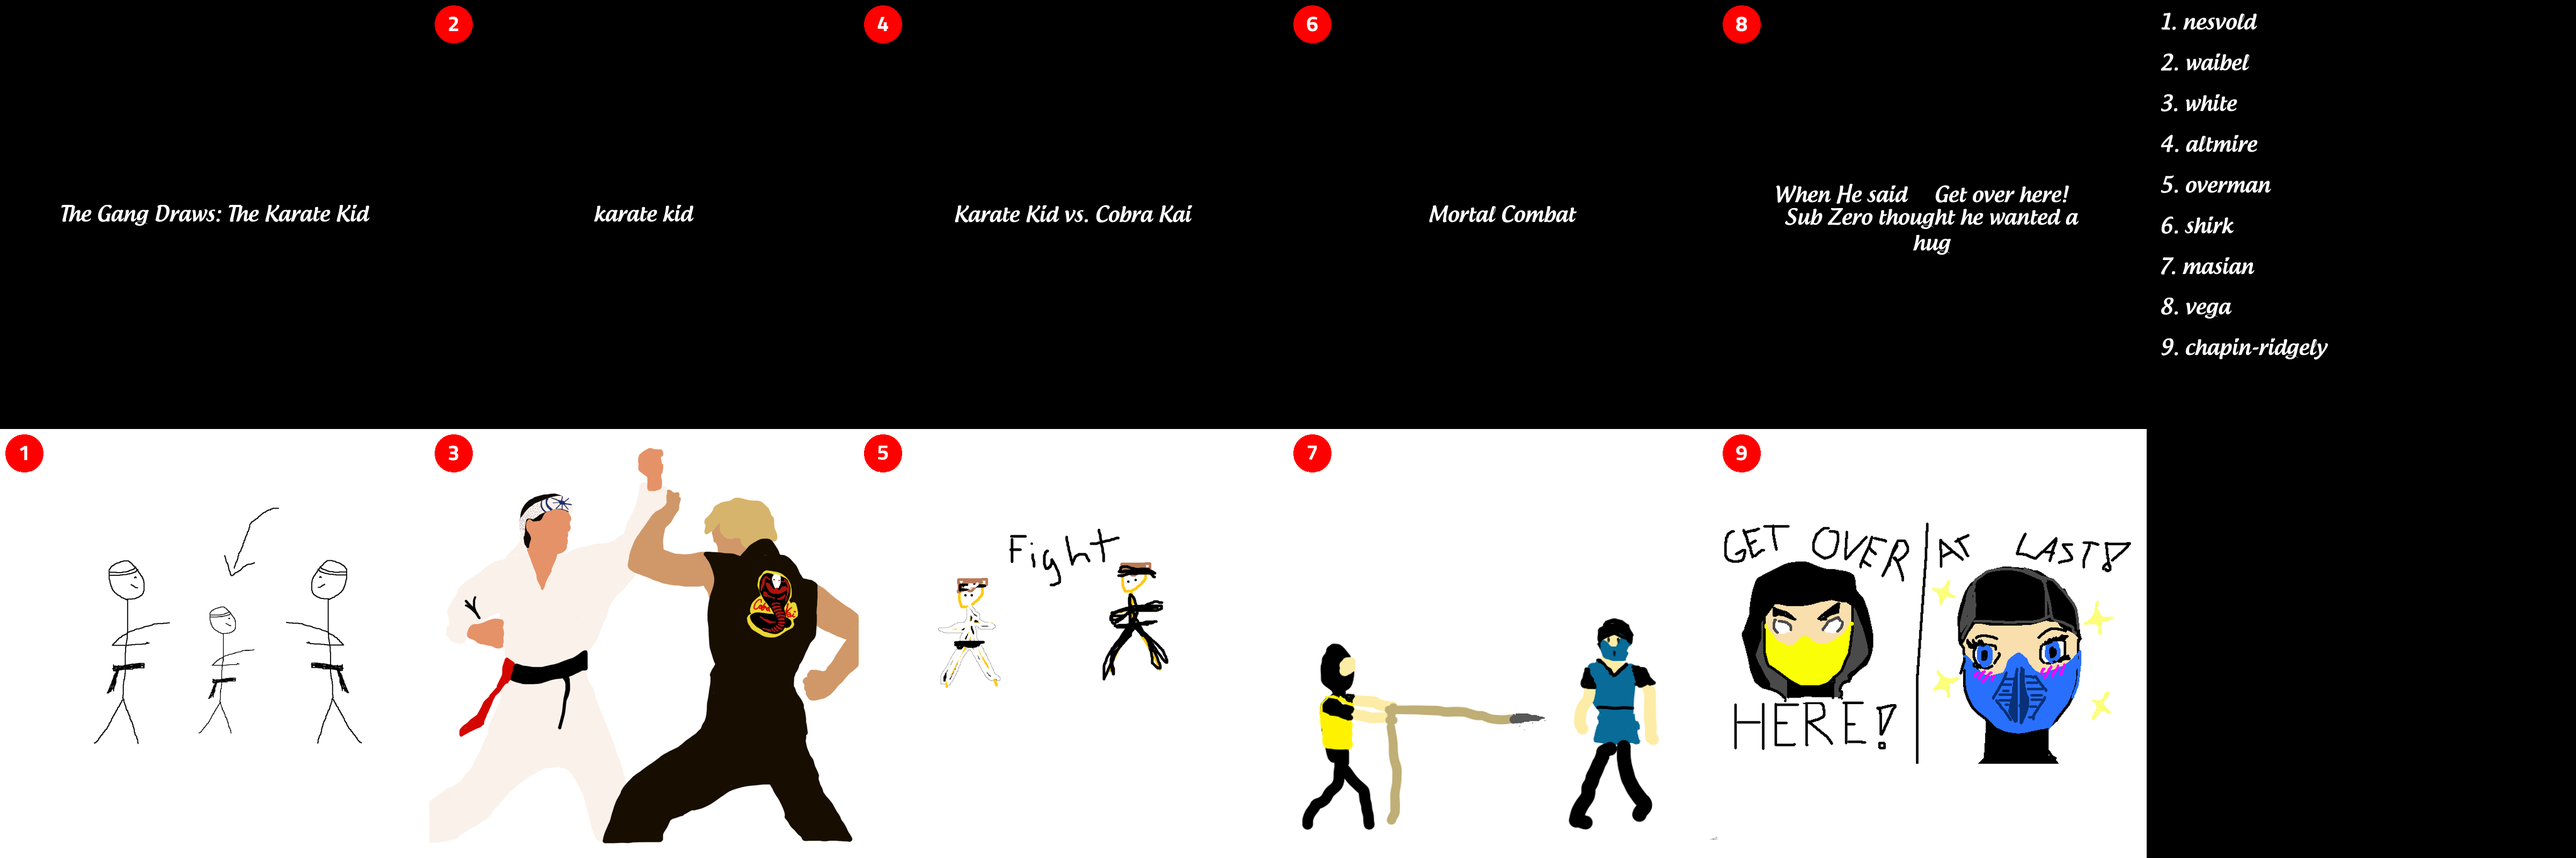
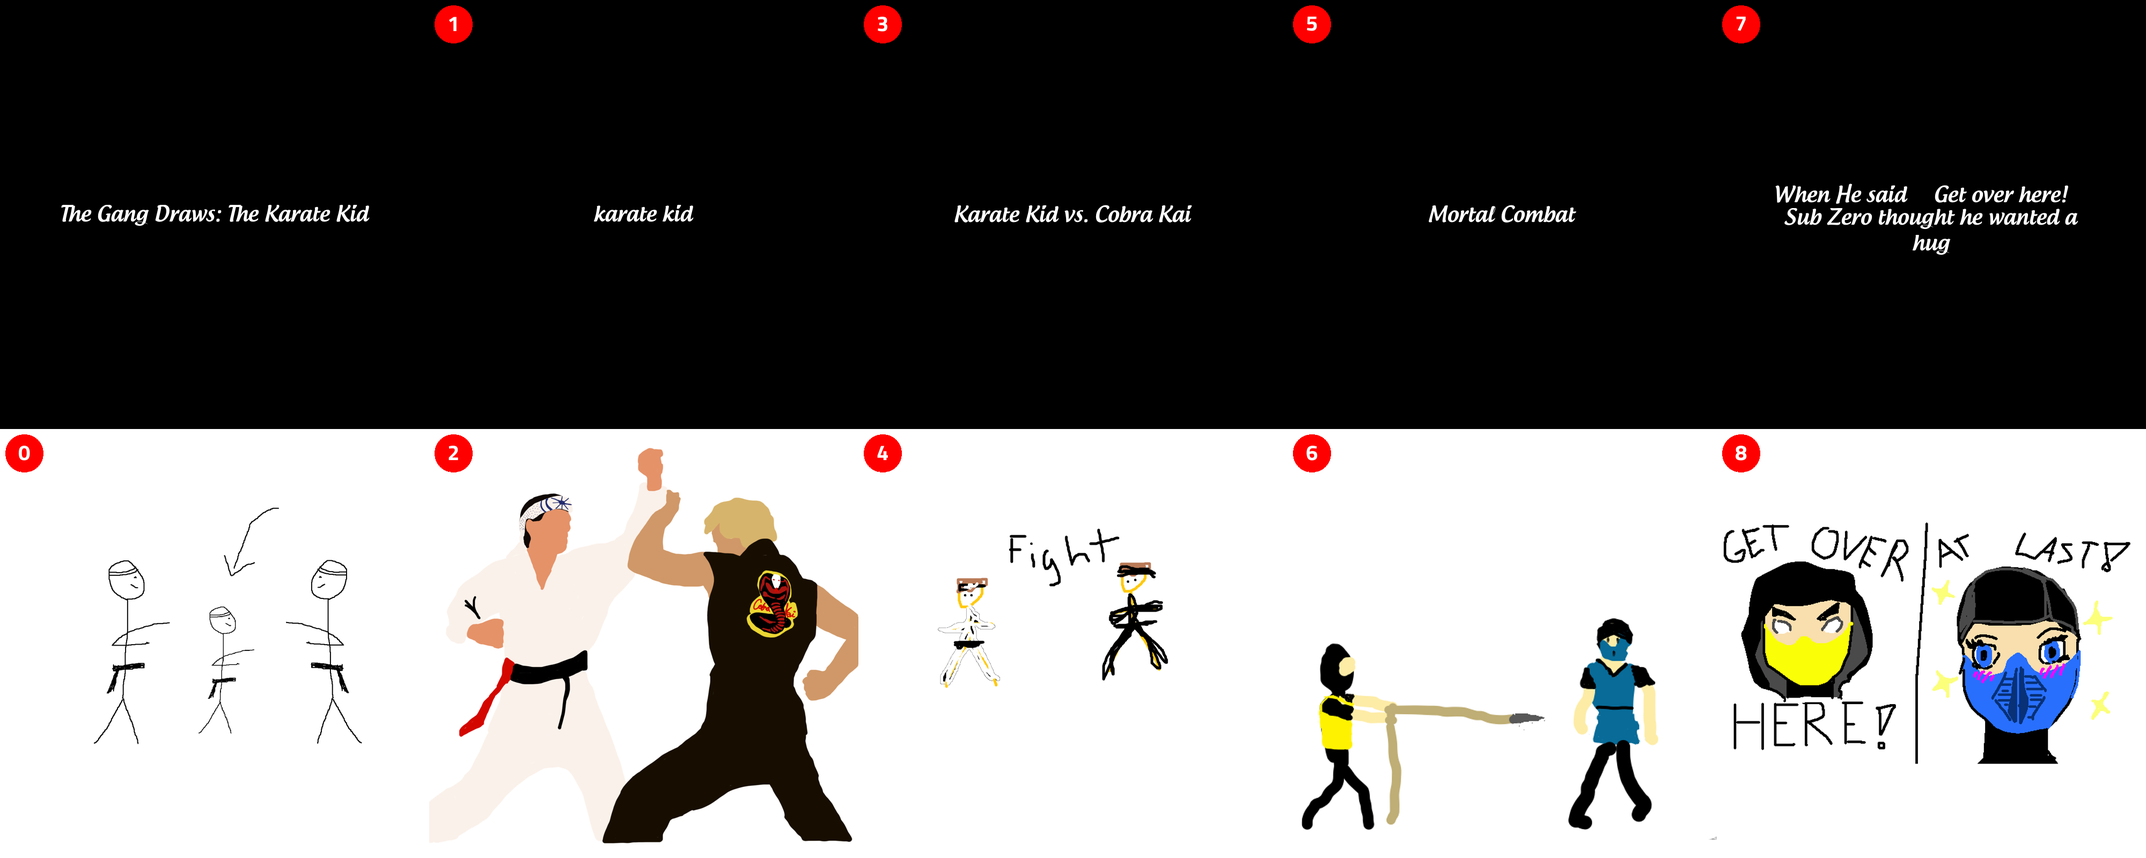
added all view without names;uses tempdir; messed with readme

diff --git a/GraphicsMaker.py b/GraphicsMaker.py
@@ -120,7 +120,8 @@ class GraphicsMaker:
         # paste outline color to input image through the mask
         image.paste(outline, mask=mask)
 
-    def create_all_view_image(self, output_image_path, output_images, single_image_width, numbered_labels=True):
+    def create_all_view_image(self, output_image_path, output_images, single_image_width, count_offset=0,
+                              numbered_labels=True):
         # todo handle correct numbers
         # todo handle double digit numbers
         # add numbers
@@ -138,7 +139,7 @@ class GraphicsMaker:
             sideways_image.paste(im, paste_top_left_coordinates)
 
             # draw number label
-            if 0 < i < len(output_images)-1 and numbered_labels:
+            if 0 < i < len(output_images)-1-count_offset and numbered_labels:
                 draw = ImageDraw.Draw(sideways_image)
                 # (x1, y1, x2, y2)
                 offset = 10
@@ -148,9 +149,9 @@ class GraphicsMaker:
                                            ((i % 2) * single_image_width) + (offset + diameter))
                 # if even amount of numbers then i = 0
                 if len(self.players.keys()) == len(output_images) - 2:
-                    num = str(i-1)
+                    num = str(i-1+count_offset)
                 else:
-                    num = str(i)
+                    num = str(i+count_offset)
                 # todo fix drawing circle
                 # draw_ellipse(im, draw_circle_coordinates, width=10, antialias=8)
                 draw.ellipse(draw_circle_coordinates, outline='red', fill='red')
@@ -225,63 +226,67 @@ class GraphicsMaker:
         self.assemble_drawing_key(os.path.join(input_path, "key.txt"))
 
         file_items = self.get_ordered_tasks(input_path)
-        media_output_path = os.path.join(output_path, 'media')
+        with tempfile.TemporaryDirectory() as tmpdirname:
+            media_output_path = os.path.join(tmpdirname, 'media')
+            # todo use named temporary directory
 
-        for res_dir_file_path, i in file_items:
-            files = self.get_ordered_responses(res_dir_file_path)
-            output_images = list()
+            for res_dir_file_path, i in file_items:
+                files = self.get_ordered_responses(res_dir_file_path)
+                output_images = list()
 
-            for j, submission in enumerate(files):
-                if j == 0:
-                    # create_title card that is used with each gif
-                    with open(submission[2], 'rt') as text_file:
-                        title_msg = 'The Gang Draws: {}'.format(text_file.read())
-                    title_card_path = tempfile.NamedTemporaryFile(suffix='.png', delete=False)
-                    self.create_text_image(title_card_path, title_msg, self.width, self.height)
-                    output_images.append(title_card_path.name)
-                else:
-                    if submission[1][:4] == 'text':
-                        # check if rtf
-                        try:
-                            with open(submission[2], 'r') as text_file:
-                                # first one "the gang draws"
-                                msg = text_file.read()
-                        except UnicodeDecodeError:
-                            with open(submission[2], 'r', encoding='ISO-8859-1') as text_file:
-                                # first one "the gang draws"
-                                msg = text_file.read()
-                        text_image_path = tempfile.NamedTemporaryFile(suffix='.png', delete=False)
-                        self.create_text_image(text_image_path, msg, self.width, self.height)
-                        output_images.append(text_image_path.name)
+                for j, submission in enumerate(files):
+                    if j == 0:
+                        # create_title card that is used with each gif
+                        with open(submission[2], 'rt') as text_file:
+                            title_msg = 'The Gang Draws: {}'.format(text_file.read())
+                        title_card_path = tempfile.NamedTemporaryFile(suffix='.png', delete=False)
+                        self.create_text_image(title_card_path, title_msg, self.width, self.height)
+                        output_images.append(title_card_path.name)
                     else:
-                        output_image_path = tempfile.NamedTemporaryFile(suffix='.png', delete=False)
-                        self.resize_and_center_image_in_frame(output_image_path, submission[2], self.width, self.height)
-                        output_images.append(output_image_path.name)
-            if len(files) == len(self.players.keys()):
-                output_images.append(self.key_frame_sans_first)
-            else:
-                output_images.append(self.key_frame_all)
+                        if submission[1][:4] == 'text':
+                            # check if rtf
+                            try:
+                                with open(submission[2], 'r') as text_file:
+                                    # first one "the gang draws"
+                                    msg = text_file.read()
+                            except UnicodeDecodeError:
+                                with open(submission[2], 'r', encoding='ISO-8859-1') as text_file:
+                                    # first one "the gang draws"
+                                    msg = text_file.read()
+                            text_image_path = tempfile.NamedTemporaryFile(suffix='.png', delete=False)
+                            self.create_text_image(text_image_path, msg, self.width, self.height)
+                            output_images.append(text_image_path.name)
+                        else:
+                            output_image_path = tempfile.NamedTemporaryFile(suffix='.png', delete=False)
+                            self.resize_and_center_image_in_frame(output_image_path, submission[2], self.width, self.height)
+                            output_images.append(output_image_path.name)
+                if len(files) == len(self.players.keys()):
+                    output_images.append(self.key_frame_sans_first)
+                else:
+                    output_images.append(self.key_frame_all)
 
-            os.makedirs(media_output_path, exist_ok=True)
+                os.makedirs(media_output_path, exist_ok=True)
 
-            all_view_path = os.path.join(media_output_path, '{}_all_view.png'.format(i))
-            self.create_all_view_image(all_view_path, output_images, self.width)
+                all_view_path = os.path.join(media_output_path, '{}_labeled_all_view.png'.format(i))
+                self.create_all_view_image(all_view_path, output_images, self.width)
 
-            output_images.pop(-1)
+                output_images.pop(-1)
+                all_view_path = os.path.join(media_output_path, '{}_all_view.png'.format(i))
+                self.create_all_view_image(all_view_path, output_images, self.width, count_offset=-1)
 
-            gif_path = os.path.join(media_output_path, '{}_motion'.format(i))
-            write_gif(output_images, gif_path, 3)
+                gif_path = os.path.join(media_output_path, '{}_motion'.format(i))
+                write_gif(output_images, gif_path, 3)
 
-            scroller_path = os.path.join(media_output_path, '{}_scroller.png'.format(i))
-            self.create_scroller_image(scroller_path, output_images, self.width)
+                scroller_path = os.path.join(media_output_path, '{}_scroller.png'.format(i))
+                self.create_scroller_image(scroller_path, output_images, self.width)
 
-            for x, temp_file in enumerate(output_images):
-                if x != len(output_images)-1:
-                    os.unlink(temp_file)
+                for x, temp_file in enumerate(output_images):
+                    if x != len(output_images)-1:
+                        os.unlink(temp_file)
 
-        zip_output_path = os.path.join(output_path, 'week_{}_results.zip'.format(self.week_num))
-        with zipfile.ZipFile(zip_output_path, 'w', zipfile.ZIP_DEFLATED) as z:
-            self.zipdir(media_output_path, z)
-        os.unlink(self.key_frame_all)
-        os.unlink(self.key_frame_sans_first)
-        print("All graphics generated and can be found in the zip located here:\n{}".format(zip_output_path))
+            zip_output_path = os.path.join(output_path, 'week_{}_results.zip'.format(self.week_num))
+            with zipfile.ZipFile(zip_output_path, 'w', zipfile.ZIP_DEFLATED) as z:
+                self.zipdir(media_output_path, z)
+            os.unlink(self.key_frame_all)
+            os.unlink(self.key_frame_sans_first)
+            print("All graphics generated and can be found in the zip located here:\n{}".format(zip_output_path))

diff --git a/main.py b/main.py
@@ -46,6 +46,5 @@ if __name__ == '__main__':
     # TODO
     # break up and reorg graphics maker methods
     # add more documentation
-    # add documentaiton on how input should look
-    # add example images to docs
+    # add documentation on how input should look
     # delete folder where temporarily stored

diff --git a/README.MD b/README.MD
@@ -27,17 +27,17 @@ Generates three types of graphics: all view, scroller, and gif
 
 ### Examples of Graphics
 #### All View
-![](assets/H_all_view.png)
+![all view example graphic](assets/H_all_view.png)
 
 Great for embedding in emails.
 
 #### GIF
-![](assets/F_motion.gif)
+![gif example graphic](assets/F_motion.gif)
 
 Look! It moves!
 
 #### Scroller
-![](assets/06_scroller.png)
+![scroller example graphic](assets/06_scroller.png | width=100)
 
 Good for thumb scrolling on mobile.
 
@@ -92,7 +92,7 @@ When using Homebrew: brew install libmagic
 
 ## Usage
 
-```$ python main.py INPUT_DIRECTORY OUTPUT_DIRECTORY GAME_NUMBER```
+```$ python main.py INPUT_DIRECTORY OUTPUT_DIRECTORY```
 
 ## How the game is played
 
